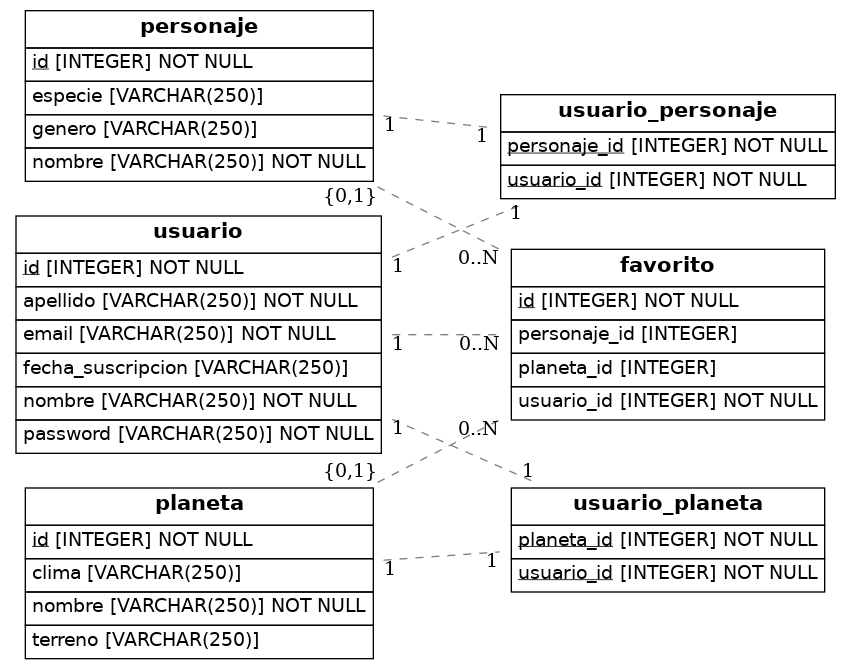
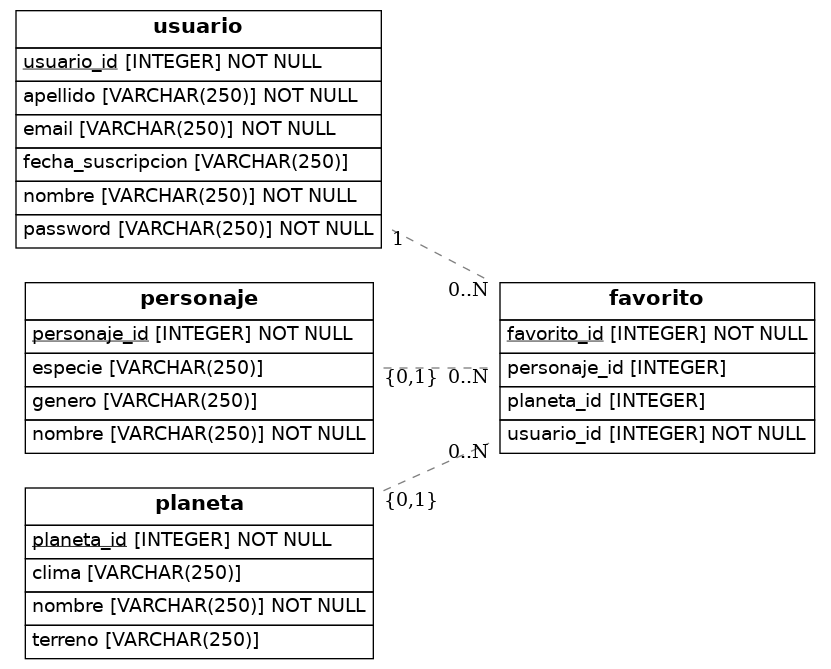
se ha corregido las tablas

diff --git a/src/models.py b/src/models.py
@@ -7,51 +7,36 @@ from eralchemy2 import render_er
 
 Base = declarative_base()
 
-
-usuario_personaje = Table('usuario_personaje', Base.metadata,
-    Column('usuario_id', Integer, ForeignKey('usuario.id'), primary_key=True),
-    Column('personaje_id', Integer, ForeignKey('personaje.id'), primary_key=True)
-)
-
-
-usuario_planeta = Table('usuario_planeta', Base.metadata,
-    Column('usuario_id', Integer, ForeignKey('usuario.id'), primary_key=True),
-    Column('planeta_id', Integer, ForeignKey('planeta.id'), primary_key=True)
-)
-
 class Usuario(Base):
     __tablename__ = 'usuario'
-    id = Column(Integer, primary_key=True)
+    usuario_id = Column(Integer, primary_key=True)
     nombre = Column(String(250), nullable=False)
     apellido = Column(String(250), nullable=False)
     email = Column(String(250), nullable=False, unique=True)
     password = Column(String(250), nullable=False)
     fecha_suscripcion = Column(String(250))
 
-    personajes = relationship('Personaje', secondary=usuario_personaje, back_populates='usuarios')
-    planetas = relationship('Planeta', secondary=usuario_planeta, back_populates='usuarios')
+  
 
 class Personaje(Base):
     __tablename__ = 'personaje'
-    id = Column(Integer, primary_key=True)
+    personaje_id = Column(Integer, primary_key=True)
     nombre = Column(String(250), nullable=False)
     genero = Column(String(250))
     especie = Column(String(250))
 
-    usuarios = relationship('Usuario', secondary=usuario_personaje, back_populates='personajes')
 
 class Planeta(Base):
     __tablename__ = 'planeta'
-    id = Column(Integer, primary_key=True)
+    planeta_id = Column(Integer, primary_key=True)
     nombre = Column(String(250), nullable=False)
     clima = Column(String(250))
     terreno = Column(String(250))
 
-    usuarios = relationship('Usuario', secondary=usuario_planeta, back_populates='planetas')
 
 class Favorito(Base):
     __tablename__ = 'favorito'
-    id = Column(Integer, primary_key=True)
+    favorito_id = Column(Integer, primary_key=True)
     usuario_id = Column(Integer, ForeignKey('usuario.id'), nullable=False)
     personaje_id = Column(Integer, ForeignKey('personaje.id'))
     planeta_id = Column(Integer, ForeignKey('planeta.id'))
